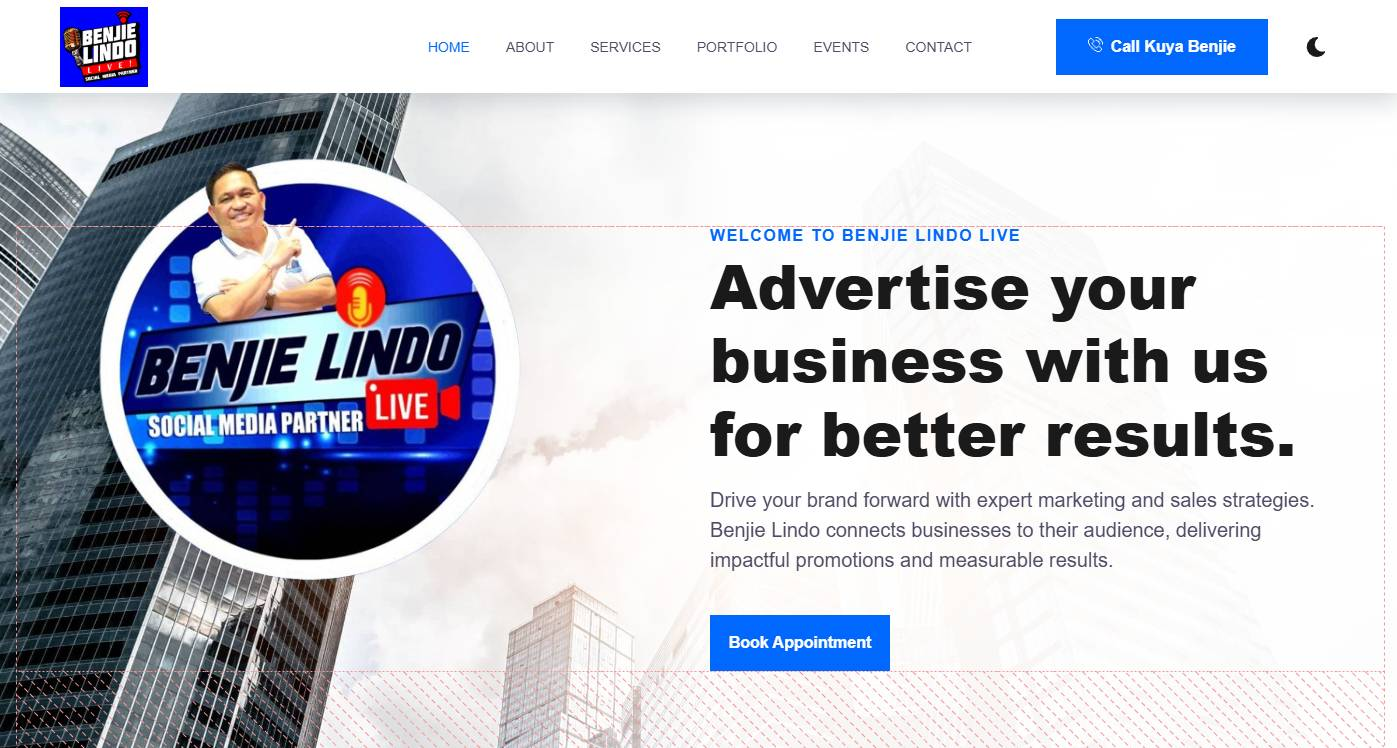
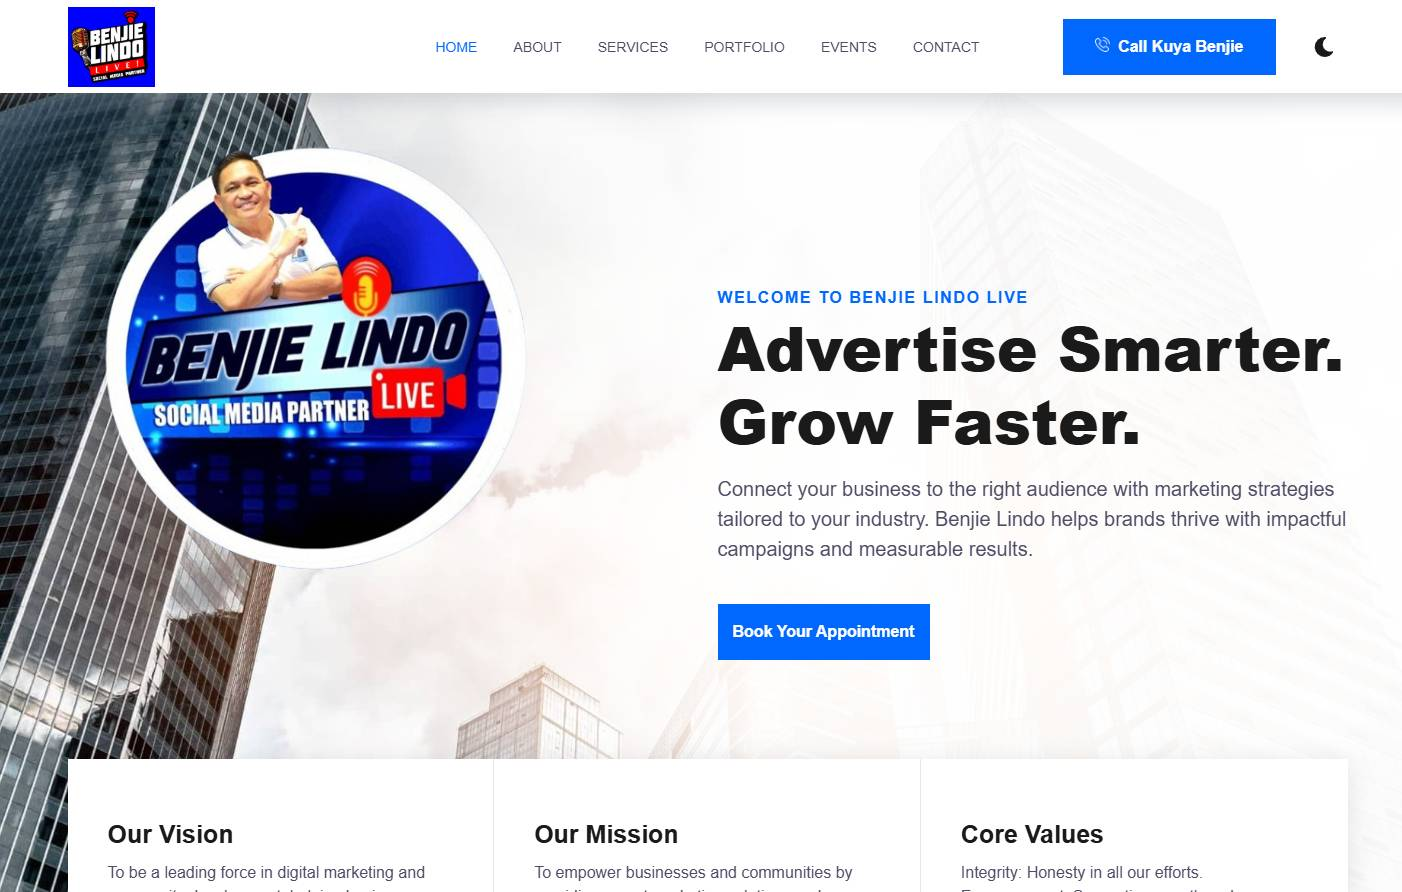
update og image

diff --git a/src/index.html b/src/index.html
@@ -1,7 +1,6 @@
 ---
 title: "Benjie Lindo Live"
-description: "The main branch of the advanced starter kit. Contains a basic 11ty setup for clients not needing much
-additional functionality. Similar to our Intermediate Kits."
+description: "Connect your business to the right audience with marketing strategies tailored to your industry. Benjie Lindo helps brands thrive with impactful campaigns and measurable results."
 permalink: '/'
 eleventyNavigation:
     key: 'Home'
@@ -16,17 +15,6 @@ eleventyNavigation:
 
 {% block body %}
 
-<!-- Usage Notes:
-We made this stitch to overlap the section below it, so if there's a patterned texture or image background on the next section below, it will overlap on top of it. Other Stitches like this would have a white gap between the cards and the next section. In order to make Stitches like this work, we need to add a padding top on the section below it to counteract the overlap. Here's the padding top you need to add to the section below this one and all the breakpoints to add them so this design will work with whatever comes after it:
-
-ON MOBILE (360px): add padding-top: (750/16rem); using LESS, or padding-top: calc(750 / 16 * 1rem); if you're using SCSS, or padding-top: 46.875rem; if you're just using vanilla CSS.
-
-ON TABLET (768px): Reset to padding-top: (500/16rem); using LESS, padding-top: calc(500 / 16 * 1rem) for SCSS or padding-top: 31.25rem; for CSS.
-
-ON DESKTOP (1024px): Reset to padding-top: (250/16rem); using LESS, padding-top: calc(250 / 16 * 1rem) for SCSS or padding-top: 15.625rem; for CSS.
-
-Doing this will complete the overlapping "breaking the container" look.
--->
 
     <!-- ============================================ -->
     <!--                    Hero                      -->
